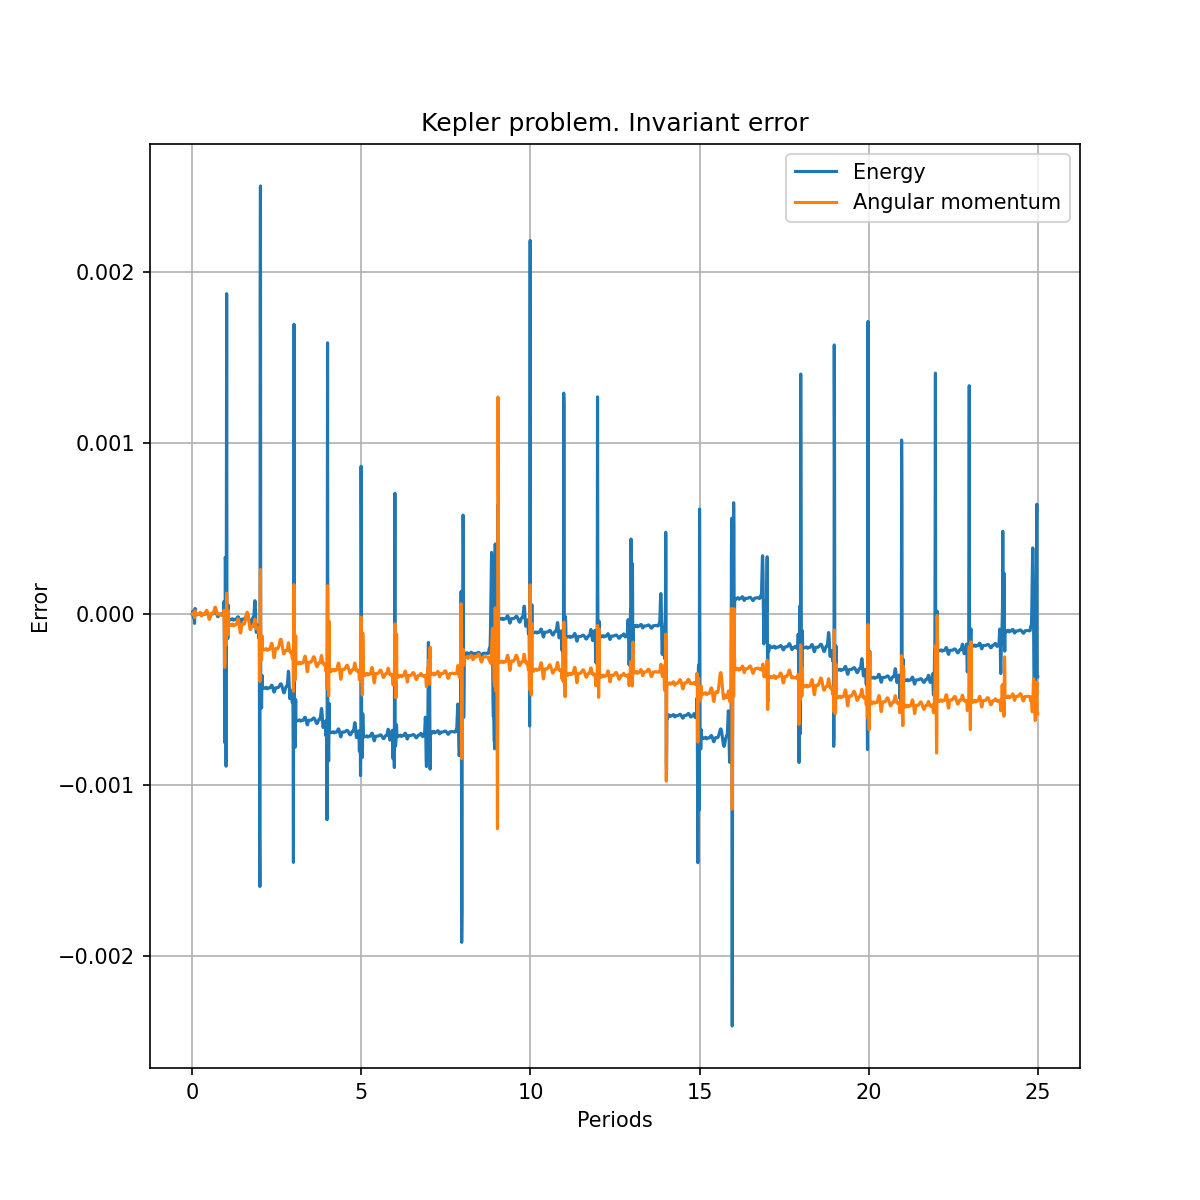
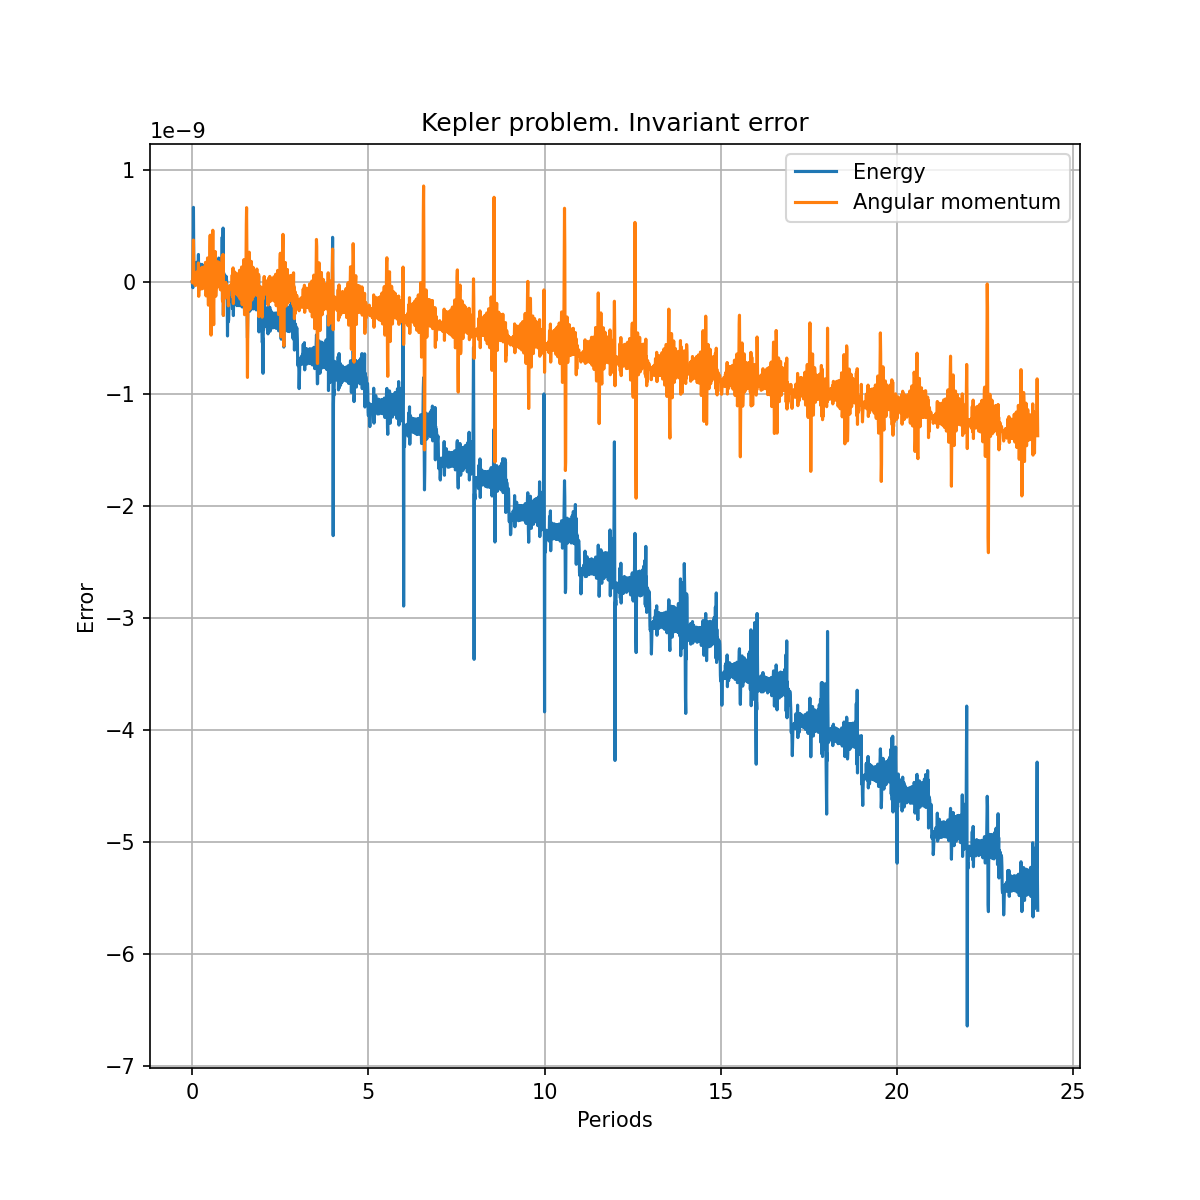
set values of rtol, atol

diff --git a/ode/double_pendulum/python/dpendulum-lagrange.py b/ode/double_pendulum/python/dpendulum-lagrange.py
@@ -1,0 +1,59 @@
+import numpy as np
+import matplotlib.pyplot as plt
+
+from numpy import sin, cos
+from scipy.integrate import solve_ivp
+
+t_max = 2*192.0
+dt = 0.02
+
+x_init = [0, np.pi/2, 0, 0]
+
+def energy(x):
+    theta_1 = x[0]
+    theta_2 = x[1]
+    u_1 = x[2]   # \dot{\theta_1}
+    u_2 = x[3]   # \dot{\theta_2}
+    E = u_1**2 + (1/2)*u_2**2 + u_1*u_2*cos(theta_1 - theta_2) + 3 - 2*cos(theta_1) - cos(theta_2)
+    return E
+
+def dfunc(t, x):
+    theta_1 = x[0]
+    theta_2 = x[1]
+    u_1 = x[2]   # \dot{\theta_1}
+    u_2 = x[3]   # \dot{\theta_2}
+    sdiff = sin(theta_1 - theta_2)
+    cdiff = cos(theta_1 - theta_2)
+    detM = 2 - cdiff**2
+ 
+    res = np.zeros_like(x)
+    res[0] = u_1
+    res[1] = u_2
+    res[2] = (sin(theta_2)*cdiff - 2*sin(theta_1) - sdiff*(u_2**2 + cdiff*u_1**2)) / detM
+    res[3] = (2*sin(theta_1)*cdiff -2*sin(theta_2) + sdiff*(2*u_1**2 + cdiff*u_2**2)) / detM
+    return res
+
+e0 = energy(x_init)
+sol = solve_ivp(dfunc, [0, t_max], x_init, t_eval=np.arange(0, t_max, dt), method="DOP853", rtol=1e-10, atol=1e-10)
+
+fig = plt.figure(figsize=(8, 8))
+plt.title("Double pendulum")
+plt.axis("equal")
+plt.xlabel("theta_1")
+plt.ylabel("u_1")
+plt.grid(True)
+
+plt.plot(sol.y[0], sol.y[2], fillstyle='none', marker='o', markersize=1.0, linestyle='None', alpha=0.25)
+xmin, xmax, ymin, ymax = plt.axis()
+plt.text(xmin + 0.05*(xmax - xmin), ymax - 0.03*(xmax - xmin), "E = {}".format(e0))
+fig.savefig('orbit-lagrange.png', dpi=150)
+
+fig = plt.figure(figsize=(8, 8))
+plt.title("Double pendulum. Invariant error")
+plt.xlabel("Time")
+plt.ylabel("Error")
+plt.grid(True)
+
+plt.plot(sol.t, energy(sol.y) - e0)
+plt.legend(['Energy'])
+fig.savefig('error-lagrange.png', dpi=150)

diff --git a/ode/kepler/python/kepler.py b/ode/kepler/python/kepler.py
@@ -1,3 +1,5 @@
+# Kepler problem
+
 import numpy as np
 import matplotlib.pyplot as plt
 
@@ -5,7 +7,7 @@ from scipy.integrate import solve_ivp
 
 eps = 0.6
 N_ppr = 120   # Number of points per rotation
-N_rot = 25    # Number of rotations
+N_rot = 24    # Number of rotations
 t_step = 2*np.pi/N_ppr
 x_init = [1 - eps, 0, 0, np.sqrt((1 + eps)/(1 - eps))]
 
@@ -26,8 +28,9 @@ def angular(x):
     L = x[0]*x[3] - x[2]*x[1]
     return L
 
-sol = solve_ivp(dfunc, [0, N_rot*2*np.pi], x_init, t_eval=[n*t_step for n in range(0, N_rot*N_ppr + 1)], method="DOP853")
+sol = solve_ivp(dfunc, [0, N_rot*2*np.pi], x_init, t_eval=[n*t_step for n in range(0, N_rot*N_ppr + 1)], method="DOP853", rtol=1e-10, atol=1e-10)
 
+# Plot orbit
 fig = plt.figure(figsize=(8, 8))
 plt.title("Kepler problem. Orbit")
 plt.axis("equal")
@@ -35,12 +38,12 @@ plt.xlabel("x")
 plt.ylabel("y")
 plt.grid(True)
 
-#plt.scatter(sol.y[0], sol.y[1])
-plt.plot(sol.y[0], sol.y[1])
+plt.plot(sol.y[0], sol.y[1], fillstyle='none', marker='o', markersize=3.0, linestyle='None')
 xmin, xmax, ymin, ymax = plt.axis()
-plt.text(xmin + 0.05*(xmax - xmin), ymax - 0.03*(xmax - xmin), "eps = {}".format(eps))
+plt.text(xmin + 0.05*(xmax - xmin), ymax - 0.03*(xmax - xmin), "eps = {}\nN_rot = {}".format(eps, N_rot))
 fig.savefig('orbit.png', dpi=150)
 
+# Plot invariant error
 e0 = energy(x_init)
 l0 = angular(x_init)
 fig = plt.figure(figsize=(8, 8))
